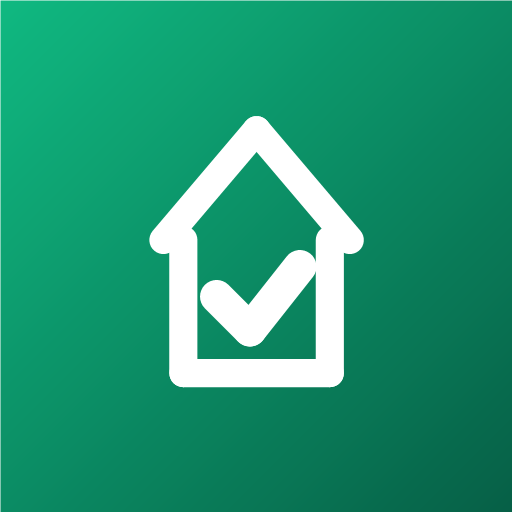
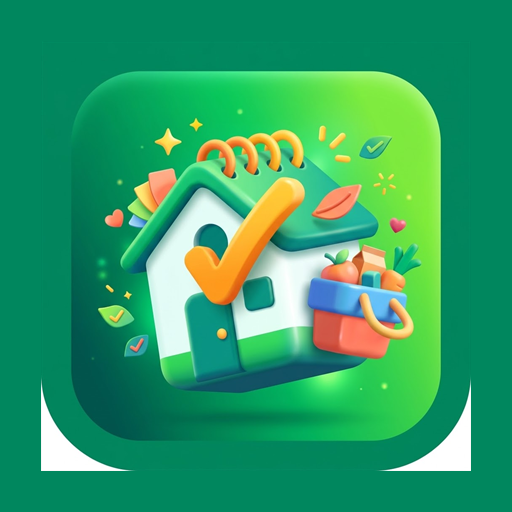
Add files via upload

diff --git a/index.html b/index.html
@@ -6,6 +6,8 @@
   <title>Buzgenda | Organización Inteligente del Hogar</title>
   <meta name="description" content="Gestión integral de Inventario del Hogar, Lista de la Compra inteligente con sistema antiduplicados y Agenda de Tareas.">
   <link rel="manifest" href="manifest.json">
+  <link rel="icon" type="image/png" href="icon-192.png">
+  <link rel="apple-touch-icon" href="icon-192.png">
   <meta name="theme-color" content="#10b981">
   <meta name="apple-mobile-web-app-capable" content="yes">
   <meta name="apple-mobile-web-app-status-bar-style" content="black-translucent">
@@ -167,12 +169,19 @@
       width: 44px;
       height: 44px;
       border-radius: var(--radius-md);
-      background: linear-gradient(135deg, #10b981 0%, #059669 100%);
+      overflow: hidden;
       display: flex;
       align-items: center;
       justify-content: center;
-      color: white;
-      box-shadow: 0 4px 12px rgba(16, 185, 129, 0.3);
+      box-shadow: 0 4px 12px rgba(16, 185, 129, 0.35);
+      flex-shrink: 0;
+    }
+
+    .brand-icon img {
+      width: 100%;
+      height: 100%;
+      object-fit: cover;
+      display: block;
     }
 
     .brand-text h1 {
@@ -1247,11 +1256,7 @@
     <header class="app-header">
       <div class="brand-group">
         <div class="brand-icon">
-          <!-- Logo SVG Home & Box -->
-          <svg width="24" height="24" viewBox="0 0 24 24" fill="none" stroke="currentColor" stroke-width="2.2" stroke-linecap="round" stroke-linejoin="round">
-            <path d="m3 9 9-7 9 7v11a2 2 0 0 1-2 2H5a2 2 0 0 1-2-2z"/>
-            <polyline points="9 22 9 12 15 12 15 22"/>
-          </svg>
+          <img src="icon-192.png" alt="Buzgenda" width="44" height="44">
         </div>
         <div class="brand-text">
           <h1>Buzgenda</h1>

diff --git a/service-worker.js b/service-worker.js
@@ -1,6 +1,6 @@
-// Service worker de Buzgenda (v1)
+// Service worker de Buzgenda (v2)
 // Estrategia: primero red, y si no hay conexión, copia guardada en caché para soporte 100% offline.
-const CACHE_NAME = 'buzgenda-cache-v1';
+const CACHE_NAME = 'buzgenda-cache-v2';
 const ARCHIVOS = [
   './',
   './index.html',
